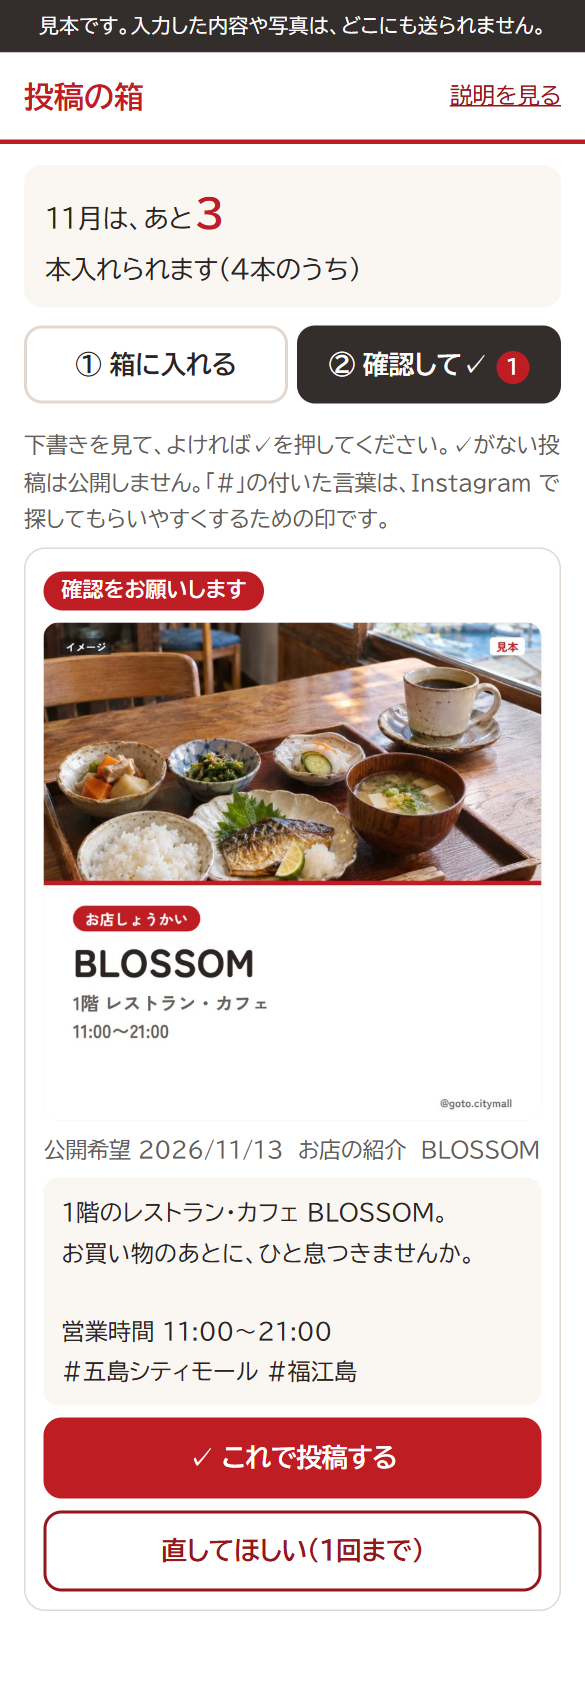
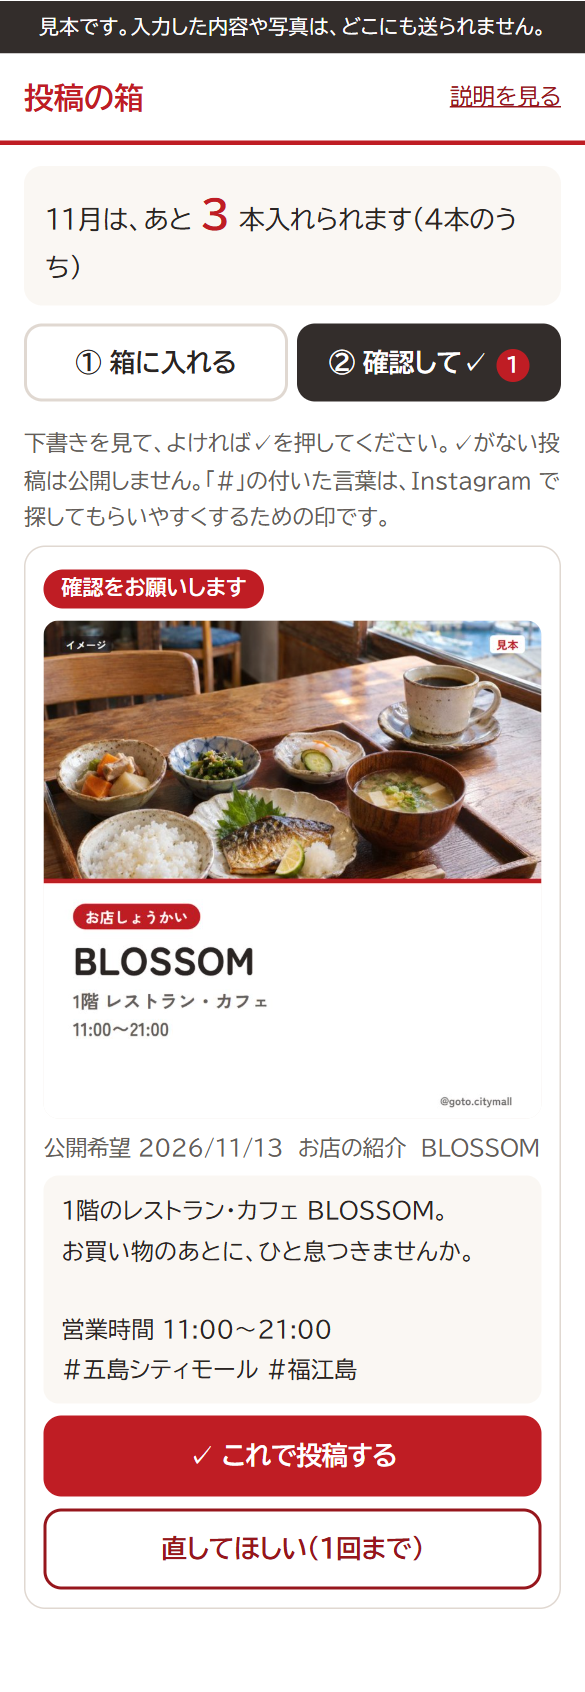
投稿の箱の見本: 枠の文字の改行を修正

diff --git a/studio/goto-citymall-post/post.css b/studio/goto-citymall-post/post.css
@@ -11,7 +11,7 @@ header b{font-size:20px;color:var(--red)}
 header a{color:var(--red-d);font-size:15px}
 main,.login{max-width:640px;margin:auto;padding:14px 16px 40px}
 .login h1{font-size:22px;margin:20px 0 12px}
-.quota{display:flex;flex-wrap:wrap;align-items:baseline;gap:2px 2px;background:var(--warm);border-radius:12px;padding:10px 14px;margin-bottom:12px}
+.quota{background:var(--warm);border-radius:12px;padding:10px 14px;margin-bottom:12px}
 .quota b{font-size:26px;color:var(--red)}
 .tabs{display:grid;grid-template-columns:1fr 1fr;gap:6px;margin-bottom:16px}
 .tabs button{font:inherit;font-weight:700;min-height:52px;background:#fff;border:2px solid var(--line);border-radius:12px;color:var(--ink);cursor:pointer}
